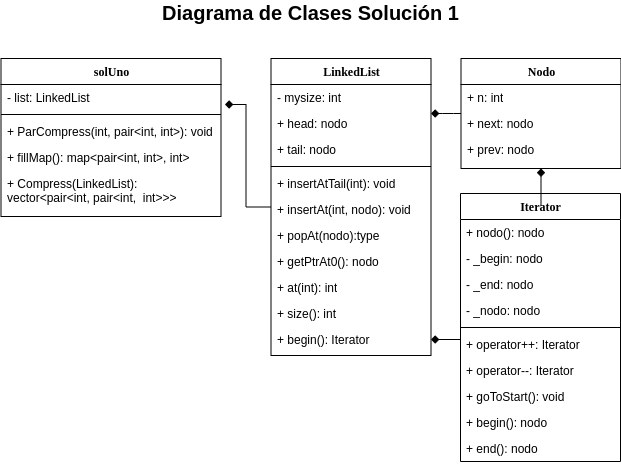
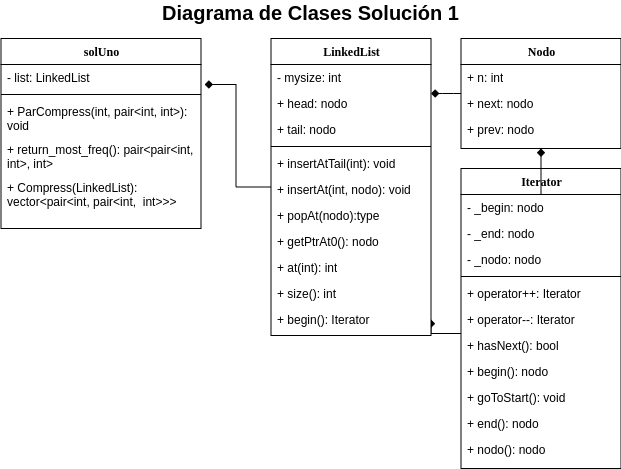
informe mas completo

diff --git a/docs/informe.md b/docs/informe.md
@@ -13,19 +13,120 @@
 
 En el presente informe examinaremos la técnica de compresión de datos **Re-Pair** mediante la implementación de dos soluciones que luego compararemos. Para ambos casos la información será representada como una lista enlazada.
 
-La primera funciona directamente recorriendo la lista de datos y buscando el par mas frecuente para luego, en otra iteración, reemplazarlo por un nuevo símbolo inexistente en la secuencia. Este proceso se repite hasta que ya no quedan pares con frecuencia mayor a 1 y en todos los casos se recorre la secuencia de principio a fin. La segunda implementación extiende la funcionalidad de la lista y agrega punteros a las ocurrencias anteriores y posteriores para cada par. Además, utiliza la estructura de datos **MAX-heap** para saber cual es el par de mayor frecuencia y a medida que reemplaza dicho par en la secuencia original actualiza el **MAX-heap**. La segunda solución supone una mejora sustancial sobre la eficiciencia tiempo de la primera implementación. Por una lado, para cada reemplazo solo recorre la lista en aquellas posiciones en las que se debe reemplazar y por otro lado actualiza la información en MAX-heap al mismo tiempo. En la primera solución tanto la busqueda del par mas frecuente como su reemplazo en lista se realizan recorriendo la lista completa. Dicha ganancia en eficiencia se analizará primero desde el punto de vista teórico y sus resultados serán validados por una evaluación experimental.
+La primera funciona directamente recorriendo la lista de datos y buscando el par mas frecuente para luego, en otra iteración, reemplazarlo por un nuevo símbolo inexistente en la secuencia. Este proceso se repite hasta que ya no quedan pares con frecuencia mayor a 1 y en todos los casos se recorre la secuencia de principio a fin.
+
+La segunda implementación extiende la funcionalidad de la lista y agrega punteros a las ocurrencias anteriores y posteriores para cada par. Además, utiliza la estructura de datos **MAX-heap** para saber cual es el par de mayor frecuencia y a medida que reemplaza dicho par en la secuencia original actualiza el **MAX-heap**. La segunda solución supone una mejora sustancial sobre la eficiciencia en tiempo de la primera implementación. Por un lado, para cada reemplazo solo recorre la lista en aquellas posiciones en las que se debe reemplazar y por otro lado actualiza simultaneamente la información en MAX-heap. En contraste, la primera solución tanto la busqueda del par mas frecuente como su reemplazo en lista se realizan recorriendo la lista completa. Dicha ganancia en eficiencia se analizará primero desde el punto de vista teórico y sus resultados serán validados por una evaluación experimental.
 
 ## Descripción de la solución propuesta
 
 ### Solución 1
 
-#### Diagrama de Clase Solucion 1
+Para comprimir la secuencia se deben realizar dos procedimientos iterativamente:
+
+1. Recorrer la lista en busca de pares y almacenar sus frecuencias.
+2. En caso de existir un par con frecuencia mayor a 1, recorrer la secuencia reemplazando el par por un nuevo símbolo. En caso contrario, se termina el ciclo.
+
+El primer paso corresponde a la función `solUno::return_most_freq()`. Su complejidad temporal es $O(nlog(n))$.
+
+```cpp
+pair<pair<int,int>, int> solUno::return_most_freq()
+{
+    map<pair<int,int>, int> *m = new map<pair<int,int>, int>();
+    auto big = make_pair(make_pair(1, 1), 1);
+
+    //////////iteracion en la linked list//////////
+    // creo un puntero nodo que apunta al 1er nodo de la lista
+
+    // cuando la tail de la LL se alcance entonces no quedaran mas
+    // valores en la LL por los cuales iterar
+    map<pair<int,int>, int>::iterator itMap;
+    Iterator it = list->begin();
+    pair<int, int> pAux;
+    
+    while(it.hasNext()) // O(n)
+    {
+        pAux = make_pair(it.nodo()->n, it.nodo()->next->n);
+        itMap = m->find(pAux); // O(Logn)
+
+        if(itMap != m->end())
+        {
+            itMap->second++;
+            if(itMap->second > big.second)
+                big = make_pair(pAux, itMap->second);
+        }
+        else
+            m->insert(make_pair(pAux, 1));
+        it++;
+    }
+
+    delete m;
+    return big;
+}
+```
+
+El segundo paso corresponde a la función `solUno::ParCompress(int regla, pair<int, int> par)`. Su complejidad temporal es $O(n)$
+
+```cpp
+void solUno::ParCompress(int regla, pair<int, int> par)
+{
+    Iterator it = list->begin();
+
+    // mientras que haya un siguiente nodo, continua
+    while(it.hasNext())
+    {
+        if(it.nodo()->n == par.first &&
+           it.nodo()->next->n == par.second)
+        {
+            it.nodo()->n = regla;
+            list->popAt(it.nodo()->next);
+
+            // por temas con la LL, es necesario revisar
+            // si el siguiente elemento en ella es la "tail"
+            // si no se revisa, el programa quedara atrapado el el while
+            if(!it.hasNext()) break;
+        }
+        it++;
+    }
+}
+```
+
+Para estructurar el proceso, la solución incluye las clases `solUno`, `LinkedList` e `Iterator` y la estructura `nodo`. Todas ellas fueron desarrolladas por los autores. A continuación, se presenta una breve reseña para cada clase.
+
+- La clase `solUno` tiene como miembro a la clase `LinkedList` y su proposito es proporcionar los métodos necesarios para comprimir la secuencia.
+- La clase `LinkedList` es una lista doblemente enlazada. Sus nodos corresponden a instancias de la estructura `nodo` y sus métodos son los que típicamente incluye una lista doblemente enlazada. También contiene un iterador que corresponde a la clase `Iterator`.
+
+- La clase `Iterator` es un iterador para `LinkedList` que incluye funcionalidad mínima para iterar sobre los elementos de la lista.
+- La estructura `nodo` corresponden a los nodos de la lista enlazada[^1].
+
+[^1]: Al examinar el código el lector notará que `nodo` incluye más funcionalidad que la expuesta en el presente apartado. Esto se debe a que `nodo` fue reutilizada y extendida para cumplir los requisitos de la solución 2. Esto no afecta el análisis para la solución 1.
+
+A modo de referencia, se incluye un diagrama de clases que describe las clases en sus miembros, incluyendo tipo de retorno y visibilidad, y también las relaciones entre ellas. Omite detalles de implementación como punteros y nombres de parámetros. Como se ve en el diagrama de clases, la principal herramienta para estructurar la solución corresponde a la composición.
 
 ![alt image](./Solucion_1.png)
 
 ### Solución 2
 
-#### Diagrama de Clase Solucion 2
+En contraste con la solución 1, la solución 2 no recorre la lista de principio a fin en cada reemplazo, sino solo en la primera iteración para llenar `MAX-heap` y encontrar el par mas frecuente, y actualizar los punteros `prevOcurr` y `nextOcurr` en `LinkedList`. (Ver Diagrama de Clases Solución 2)
+
+Luego se toma el par de mayor frecuencia en `MAX-heap` y se reemplaza por un nuevo símbolo. Para los reemplazos se recorre la lista desde la primera ocurrencia del par, apuntada por `str.first`, hasta la última, apuntada por `str.last`, pero esta vez utilizando los punteros `nextOcurr`, reduciendo considerablemente el tiempo que toma cada reemplazo. En este proceso se eliminan, potencialmente, el par actual, el anterior, y el siguiente, por lo tanto se actualizan sus frecuencias dentro de MAX-heap. Luego debemos agregar (o actualizar) hasta dos nuevos pares: el primero formado por el nodo anterior y el nuevo símbolo y el segundo por el símbolo y el nodo siguiente. En cualquier caso, se actualizan los punteros `prevOcurr` y `nextOcurr` cuando y donde es necesario.
+
+En términos de código, la solución 2 se compone con las siguientes clases (o estructuras): `MaxHeap`, `str`, `LinkedList`, `Nodo` e `Iterator`
+
+A continuación se presenta una breve descripción de las clases que componen la solución 2. No se incluye descripción para aquellas clases que ya fueron descritas en la solución 1.
+
+La estructura `Nodo` fue extendida al agregar punteros a la ocurrencias previa y siguiente de un par, `prevOcurr` y `nextOcurr`, respectivamente.
+
+La estructura `str` contiene referencias a la primera ocurrencia de un par (`first`), a la última (`last`) y a su posición dentro del heap.
+
+Los dos puntos anteriores son de vital importancia, porque juntos permiten realizar reemplazos donde corresponda sin tener que recorrer la secuencia completa.
+
+La clase `MaxHeap`, como su nombre lo indica, es un **MAX-heap**. Para efectos de este proyecto ha sido extendida y modificada mas allá de sus funcionalidades tradicionales con el objetivo de:
+    1. Almacenar la lista enlazada con los datos a comprimir (`LinkedList`).
+    2. Almacenar y actualizar para cada nodo del árbol: el par, su frecuencia y una instancia de `str`.
+
+Adicionalmente, se incluyen métodos para ayudar la depuración y para recorrer y buscar un par mediante iteradores.
+
+Al igual que para la solución 1, es clave el uso de la composición para relacionar las distintas clases.
 
 ![alt image](./Solucion_2.png)
 
@@ -195,13 +296,13 @@ void MaxHeap::updateFrequency(itM index, int change) {
 
 ```
 
-
-detalles de implementación (debe incluir un ejemplo
-completo con al menos 3 pasos donde se vea cómo se van actualizando los punteros y estructuras
-de datos, para la versión avanzada).
-
 ## Evaluación experimental
+
+Como se puede apreciar en el gráfico, los resultados del análisis teórico son validados por el análisis experimental. Es sencillo apreciar que la solución 2 es muy superior a la solución 1 en términos de tiempo.
+
+Se puede decir, sin que esto constituya prueba formal, que la solución 1 pertenece a $O(nlog(n))$ y que la solución 2 pertenece a $O(log(n))$
 
 ![alt image](./comp_tiempo_experi.png)
 
 ## Anexos
+
